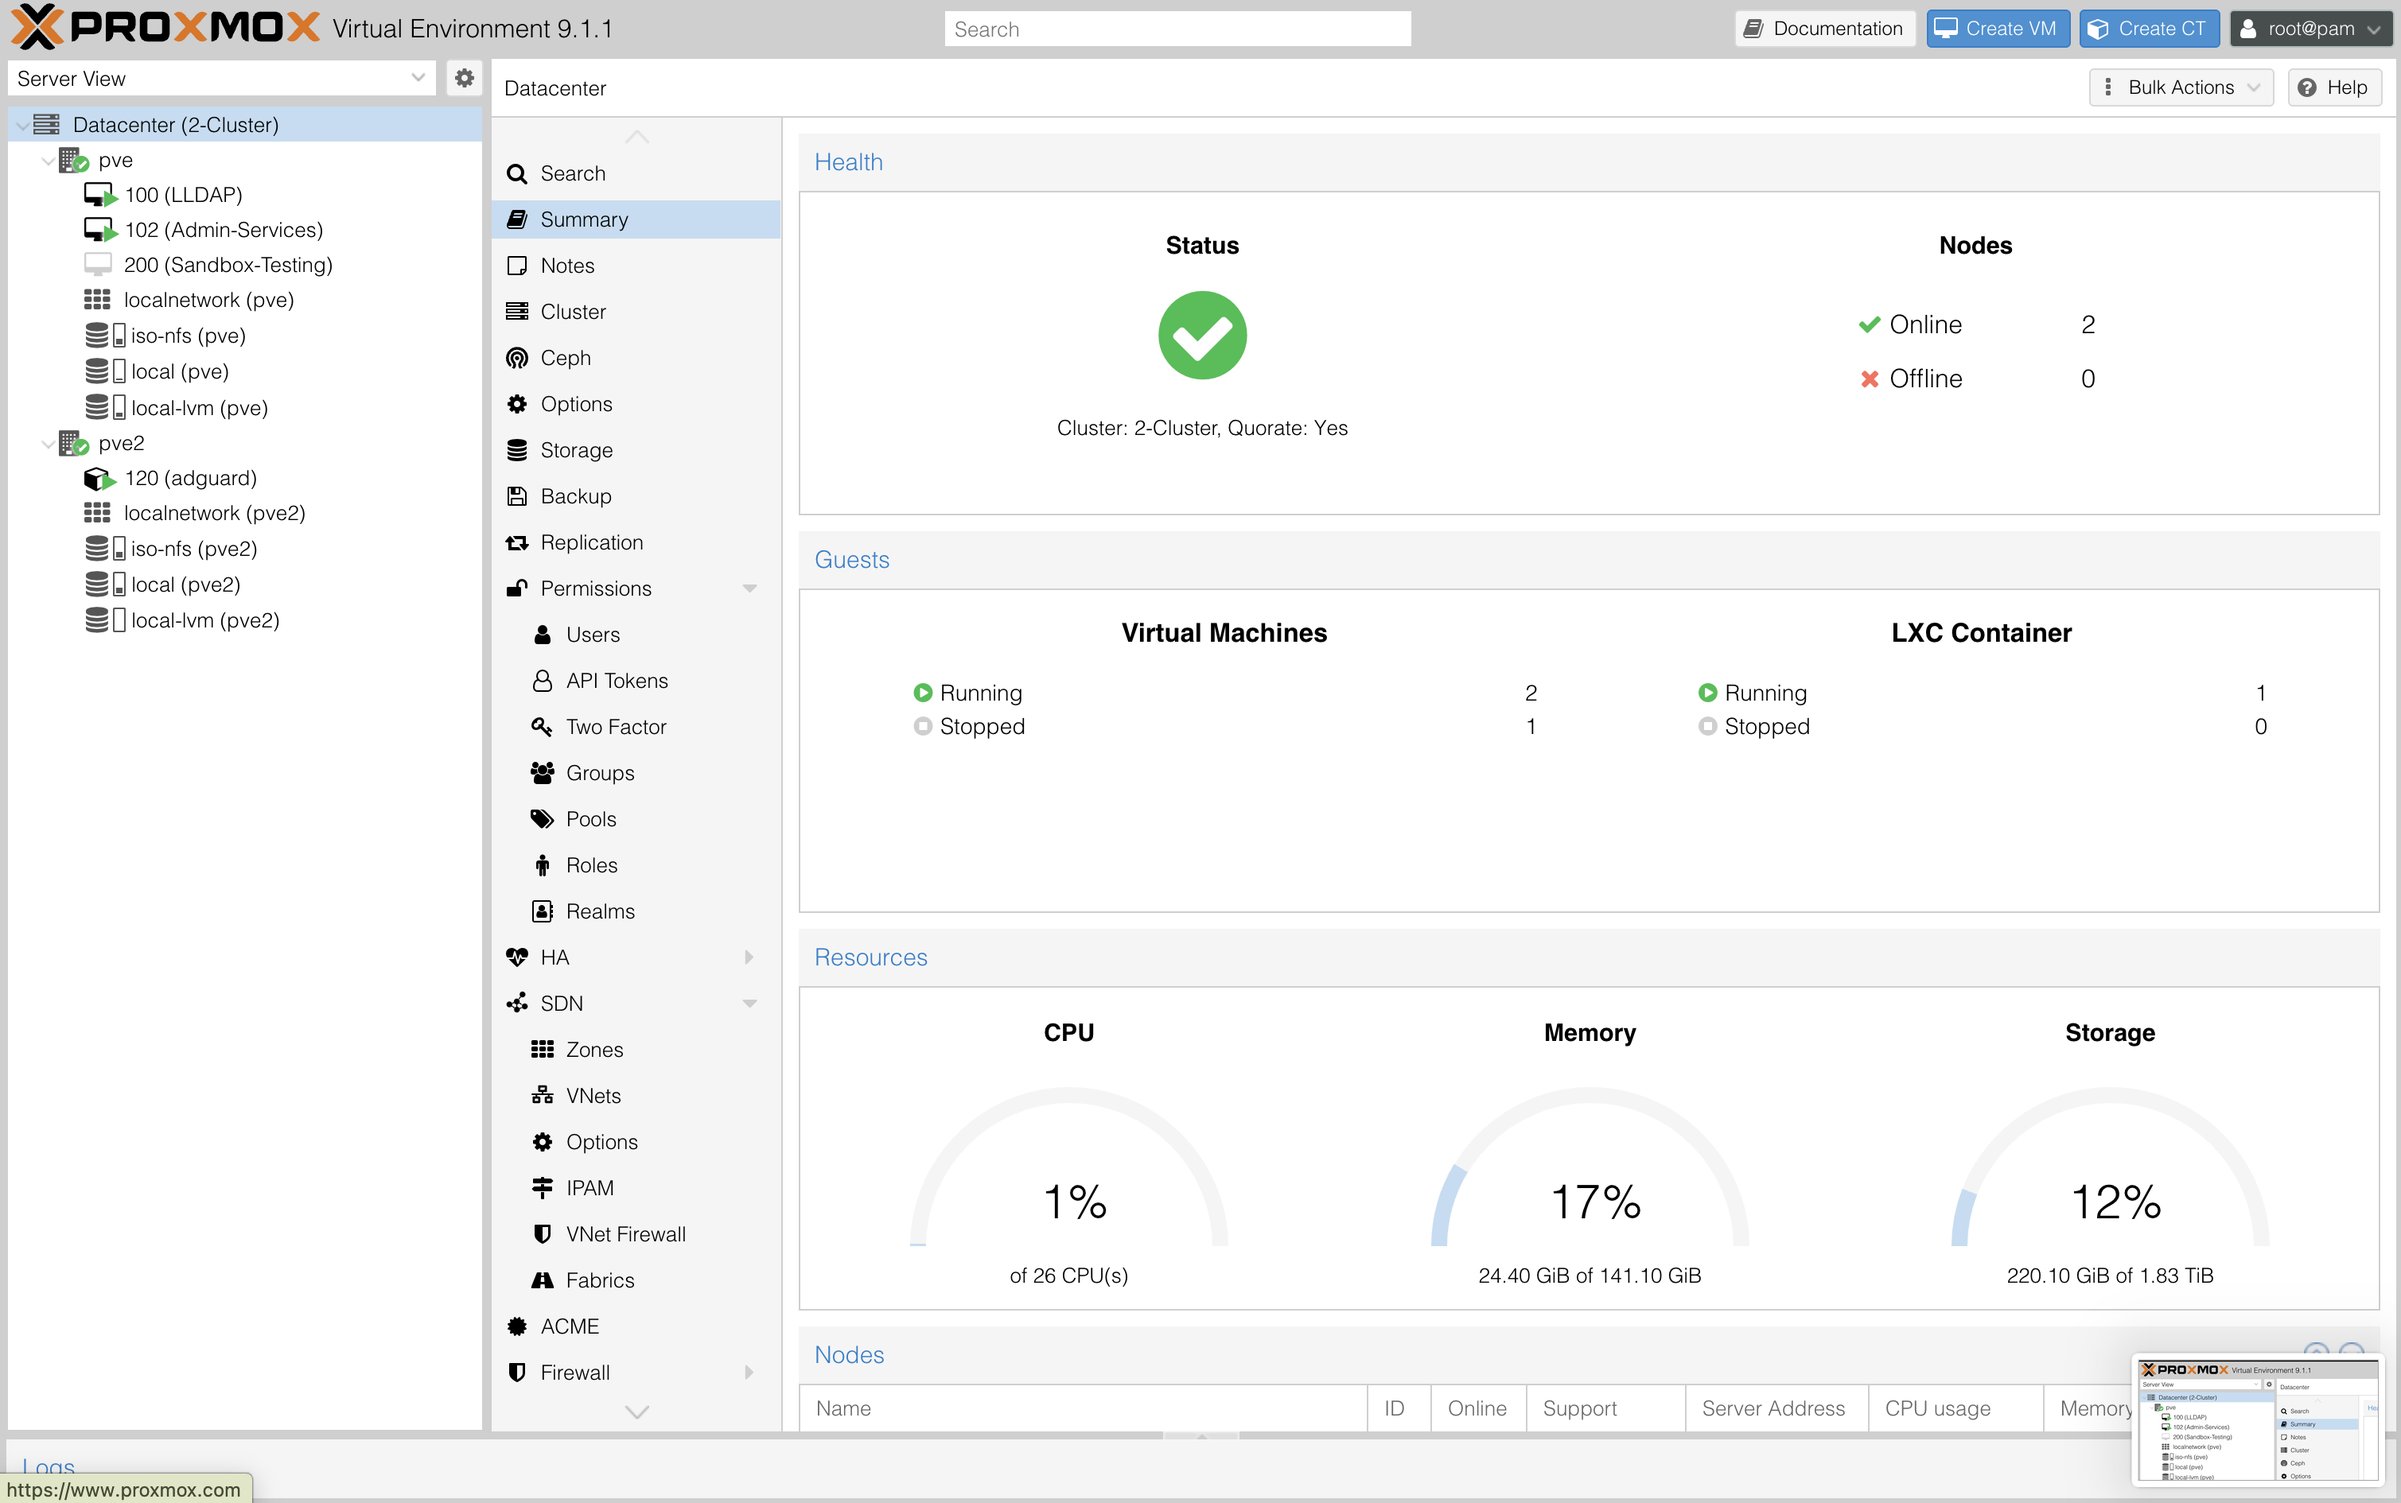
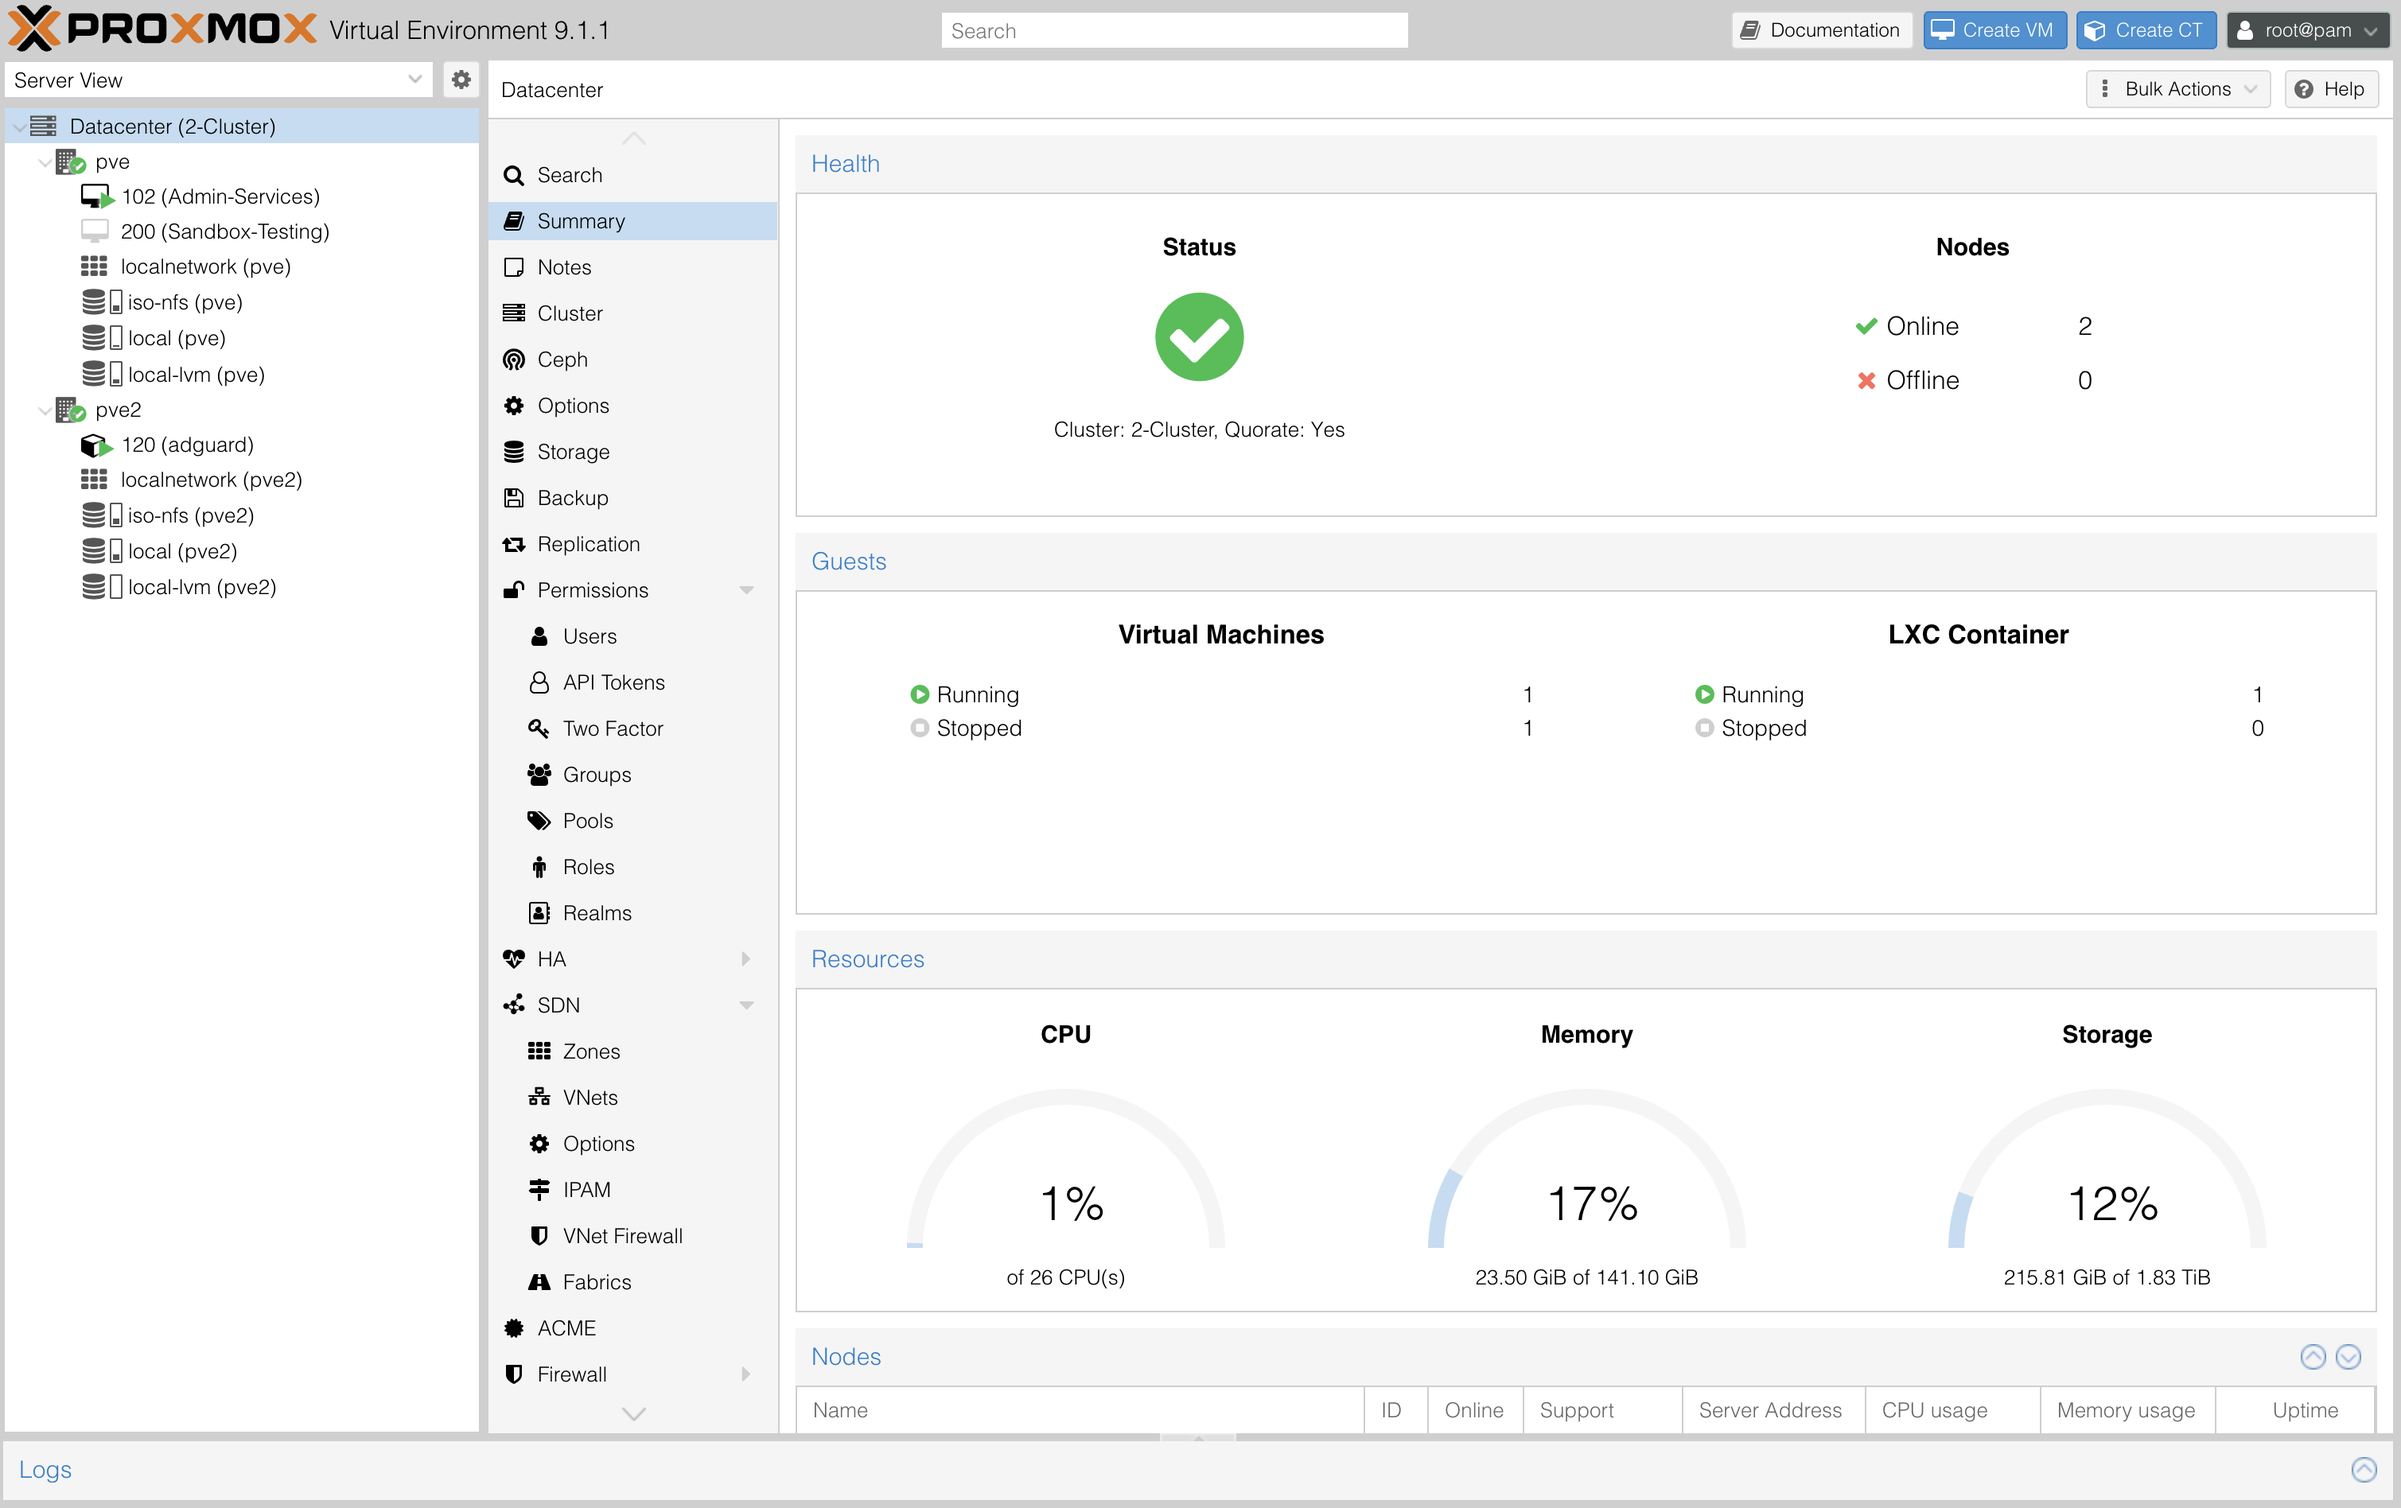
docs: fix infrastructure tree, add lldap as planned

diff --git a/README.md b/README.md
@@ -13,9 +13,9 @@ centralized DNS filtering.
 
 ## Current Infrastructure
 
+```
 Physical Layer
 
-```
 ├── pfSense (bare metal)
 
 │   Firewall | Routing | Tailscale VPN
@@ -41,7 +41,9 @@ Physical Layer
 │
 
 └── PVE2 — Operations Node
+```
 
+```
 Hardware: Mac Mini 2018 | 16GB RAM
 
 ├── AdGuard (LXC) — Network DNS filtering
@@ -62,13 +64,12 @@ Hardware: Mac Mini 2018 | 16GB RAM
 | Reverse Proxy | Nginx | Running |
 | VCS and CI/CD | Self hosted GitLab | Running |
 | File Storage | Nextcloud | Running |
-| Media | Navidrome | Running |
 | Shared Storage | NFS | Running |
 | Orchestration | K3s Kubernetes | In Progress |
 | Monitoring | Prometheus + Grafana + Loki | In Progress |
 | IaC | Terraform | In Progress |
-| Identity | LLDAP | In Progress |
 | Backups | Automated NFS | In Progress |
+| Identity | LLDAP | Planned |
 
 ---
 
@@ -112,7 +113,7 @@ shared NFS storage across pve and pve2*
 
 ### GitLab CI Pipeline  
 ![GitLab CI](./images/gitlab-pipeline.png)
-*Automated pipeline — lint accross monorepo components, Trivy security scan, Secret detection, automatic GitHub mirror on passing build*
+*Automated pipeline — lint across monorepo components, Trivy security scan, Secret detection, automatic GitHub mirror on passing build*
 
 ---
 
@@ -153,9 +154,23 @@ across both Proxmox nodes. Eliminates duplicate ISO
 storage and ensures both nodes provision VMs from
 the same images.
 
+**Proxmox cluster with quorum over independent nodes**
+Configured PVE and PVE2 as a proper Proxmox cluster 
+with quorum enabled rather than two independent nodes. 
+Quorum prevents split brain scenarios — if one node 
+loses connectivity the cluster protects data integrity 
+by stopping new VM operations until quorum is restored.
+
 ---
 
 ## Challenges and Solutions
+
+**Proxmox cluster quorum with two nodes**
+Two node clusters require careful quorum configuration. 
+With only two nodes losing one node loses quorum and 
+halts cluster operations. Mitigated by ensuring PVE2 
+runs only non-critical observability workloads so 
+losing PVE2 does not affect production services on PVE.
 
 **GitLab external URL misconfiguration**
 GitLab returning incorrect clone URLs after initial
@@ -199,7 +214,7 @@ migration.
 
 ---
 
-## Todo
+## Roadmap
 
 ### Phase 1 — Cluster Restructure (Current)
 - [ ] Backup GitLab and Nextcloud to NFS
